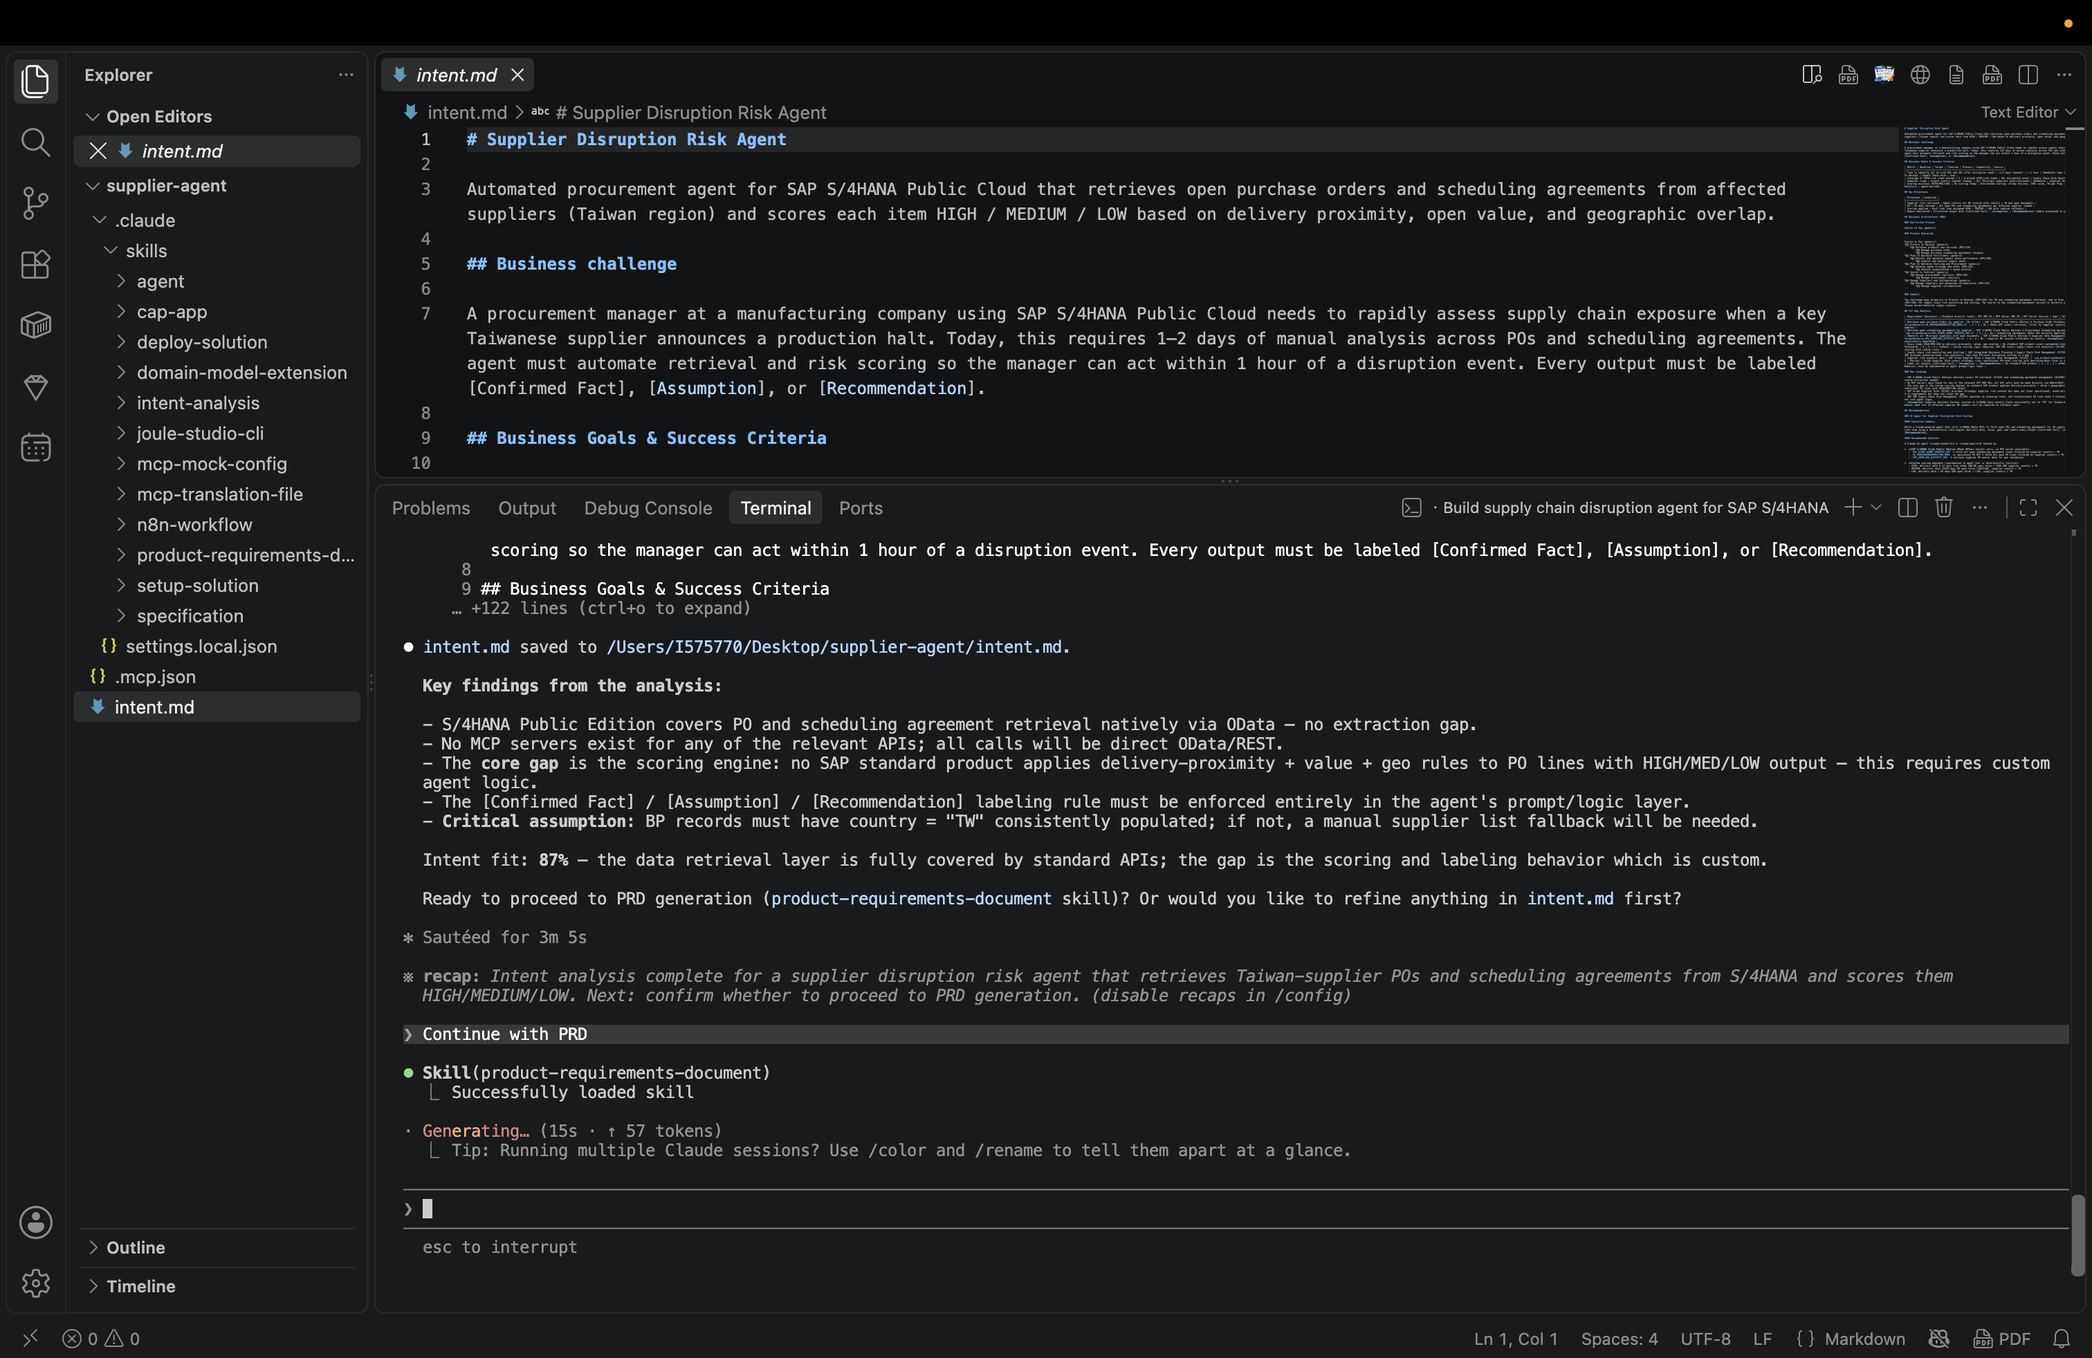
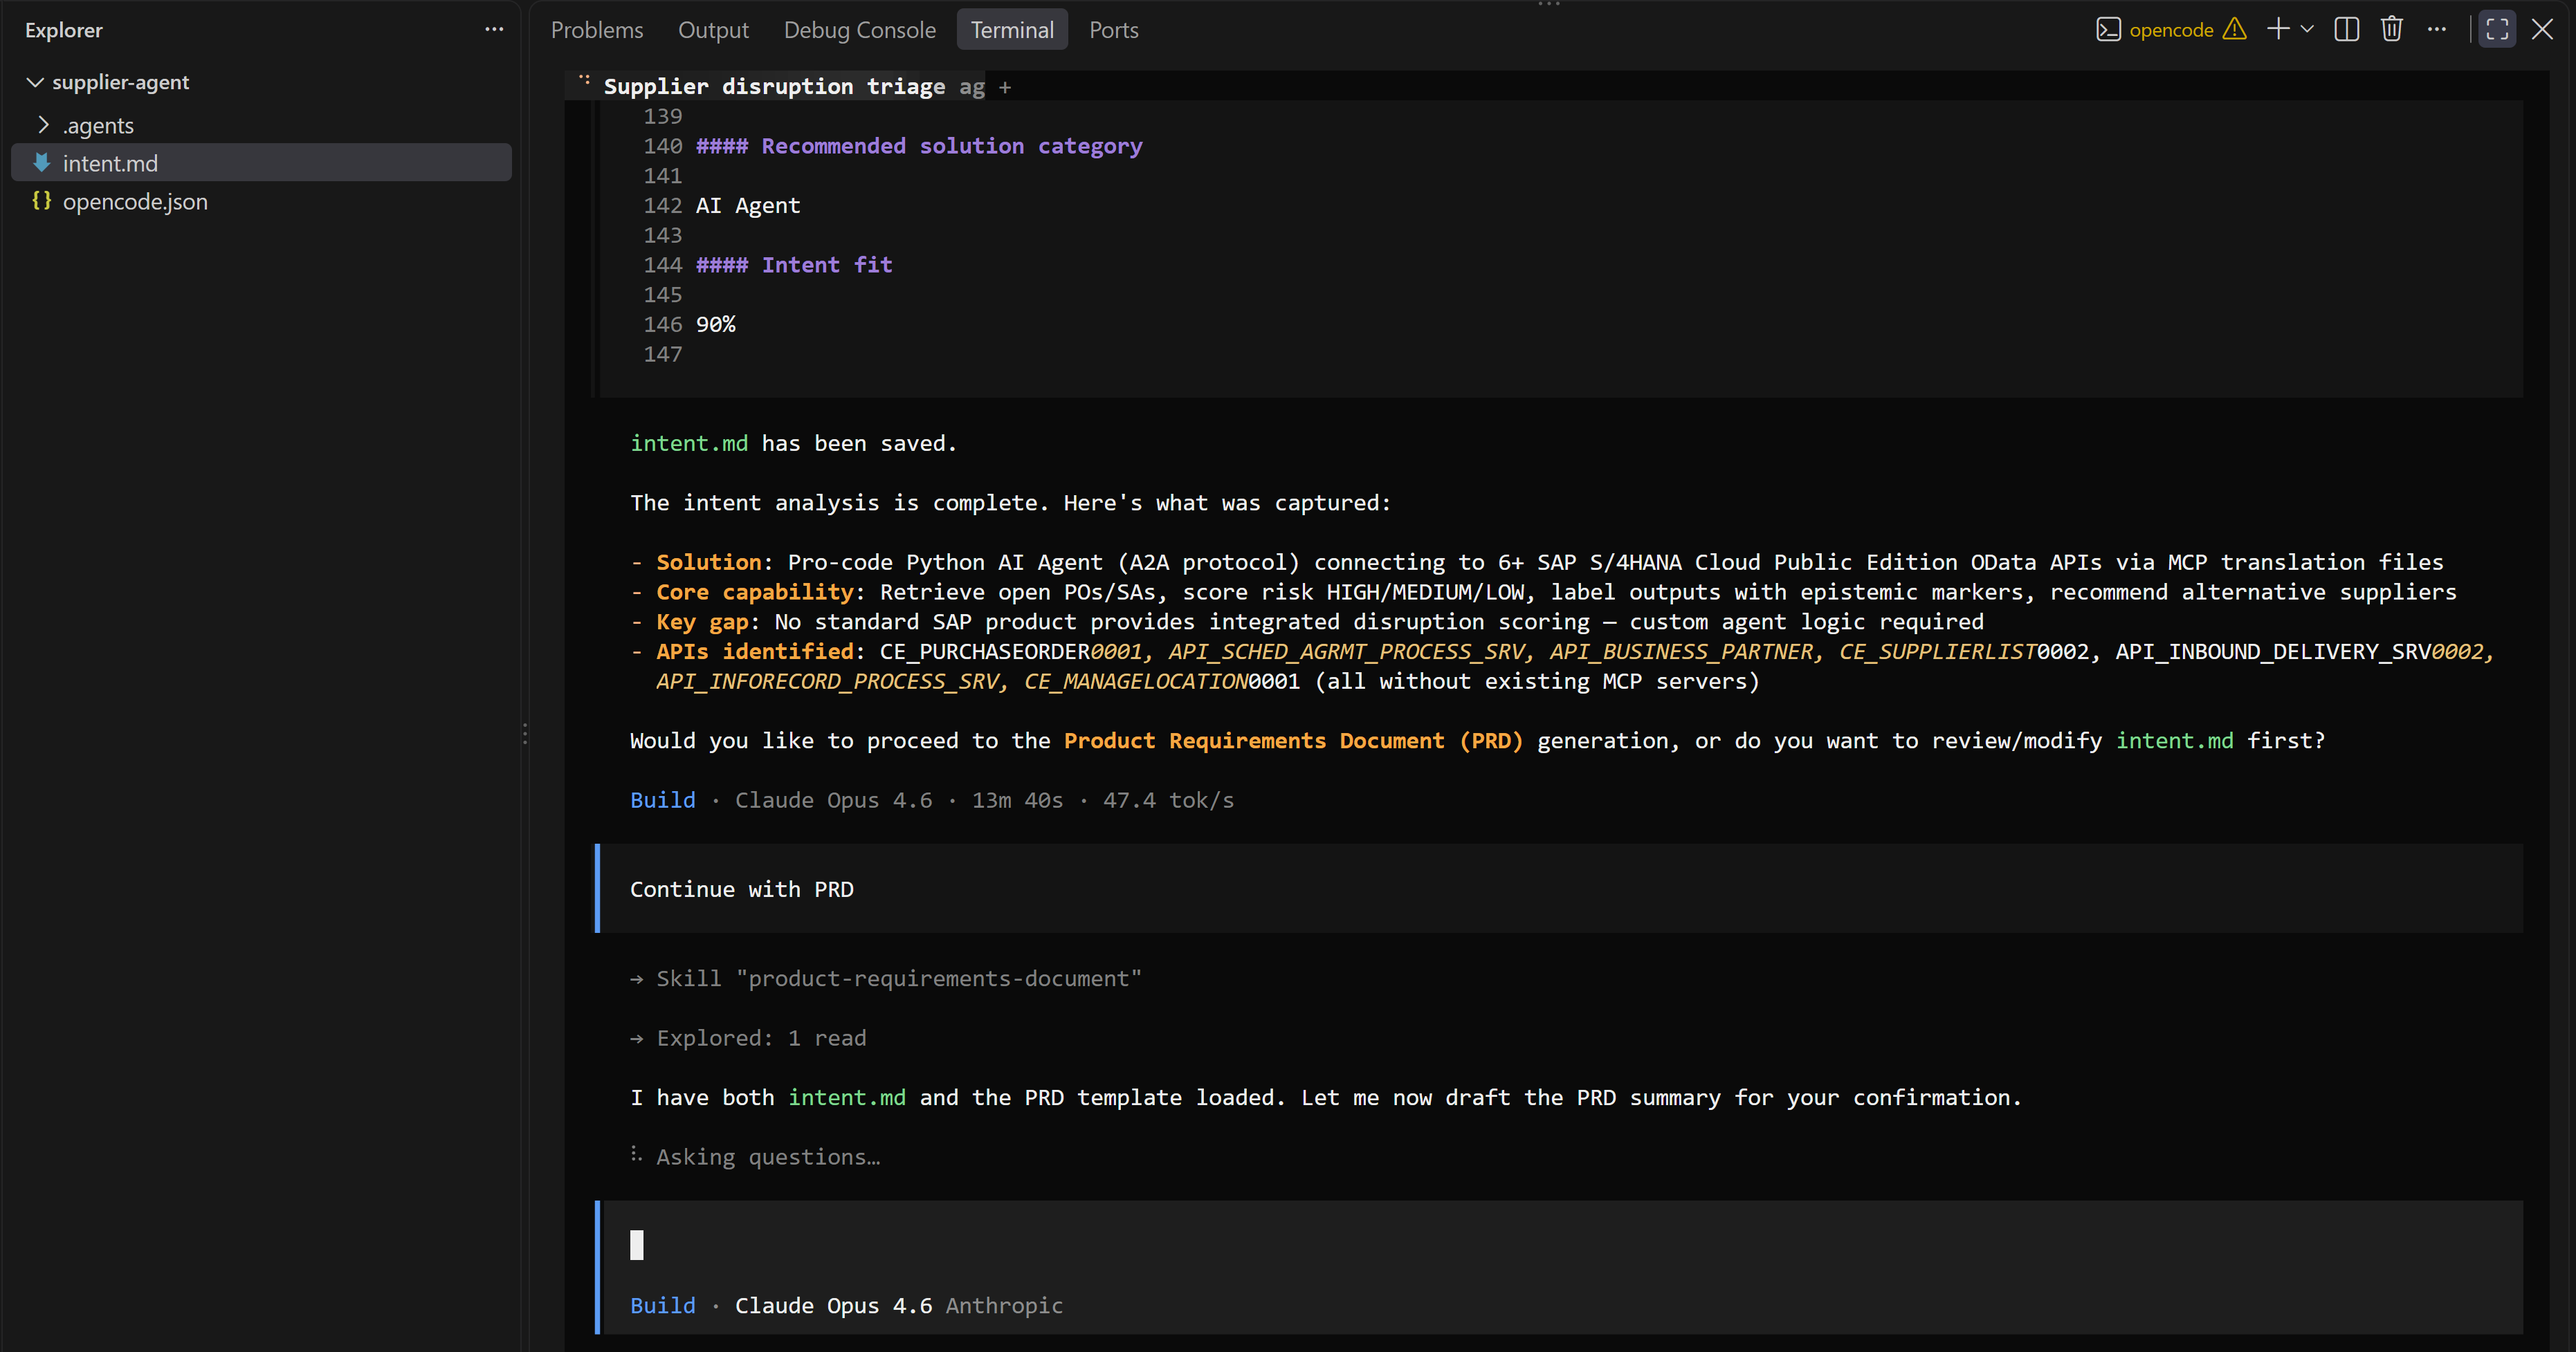
cli tutorial update

diff --git a/tutorials/build-a-supplier-disruption-response-agent-on-sap/build-a-supplier-disruption-response-agent-on-sap.md b/tutorials/build-a-supplier-disruption-response-agent-on-sap/build-a-supplier-disruption-response-agent-on-sap.md
@@ -18,6 +18,7 @@ author_profile: https://github.com/pbujnicka
 - Access to Joule Work and Joule Studio
 - VS Code installed on your session laptop
 - [`jl` CLI (Joule Studio CLI)](https://help.sap.com/docs/joule-studio/joule-studio/joule-studio-for-cli-pro-code-development-in-joule-studio)
+- any compatible coding agent (e.g. OpenCode)
 
 > **No starter repo needed.** You create everything from scratch using the IBD flow.
 
@@ -45,7 +46,7 @@ Joule Studio supports two development modes:
 | Mode | Who it's for | How it works |
 |------|-------------|--------------|
 | Web | Developers, business analysts | Visual flow builder in a browser |
-| **Local / CLI** | Developers, technical PMs | `jl` CLI + coding agent (Claude Code or opencode) on your laptop |
+| **Local / CLI** | Developers, technical PMs | `jl` CLI + coding agent (e.g. OpenCode) on your laptop |
 
 
 
@@ -113,7 +114,7 @@ Both MCP servers are generated during the exercise using the MCP Builder in Joul
 In this exercise you will open VS Code, create your working folder, log into the provided Joule Studio landscape, and launch the coding agent. This takes about 10 minutes.
 
 > **Note — Coding agent**
-> Depending on the landscape provided, the coding agent will be **Claude Code** (`claude`) or **opencode** (`opencode`). Both support the same IBD flow — every step in these exercises is identical regardless of which one is installed.
+> You can choose a coding agent based on your preferences or your company policies. In this tutorial OpenCode will be shown as an example. All the supported coding agents will use the same IBD flow — every step in these exercises is identical regardless of which one is installed. To check which coding agents are supported, run the following command in the terminal: `jl init -h`
 
 #### Open VS Code
 
@@ -207,24 +208,23 @@ A browser window opens for authentication. Once confirmed, the CLI stores the se
 
 ### Initialize the Project
 
+Run `jl init` command with the selected coding agent as an argument. For example for OpenCode use the following syntax:
+
 ```bash
-jl init claude
+jl init opencode
+jl init opencode
 ```
 
-`jl init` sets up the Joule Studio project in your current folder — it fetches the IBD skills into `.claude/skills/` and writes `.mcp.json` and `.claude/settings.local.json`.
+`jl init` sets up the Joule Studio project in your current folder — it fetches the IBD skills into `skills/` folder (correct path depends on the selected coding agent) and writes other configuration files.
 
 <!-- border -->
 ![jl init complete](08_jl_init_complete_skills_tree.png)
 
-> **Do not modify the IBD skills.** The files in `.claude/skills/` encode deployment conventions. Customize your agent through its own code, not through the skills that generate it.
+> **Do not modify the IBD skills.** The files in the `skills/` folder encode deployment conventions. Customize your agent through its own code, not through the skills that generate it.
 
 #### Launch the Coding Agent
 
-```bash
-claude
-```
-
-or:
+Run your coding agent. For example, for OpenCode use the following command:
 
 ```bash
 opencode
@@ -233,20 +233,21 @@ opencode
 The coding agent opens — a chat interface inside the terminal.
 
 <!-- border -->
-![Claude Code](09_claude_code_launched.png)
+![OpenCode](09_open_code_launched.png)
 
 > **Auto-approve mode**
-> - **Claude Code**: press `Shift+Tab` once or twice to cycle to **Auto-approve** mode
+> Use [auto-approve mode](https://opencode.ai/docs/permissions/) for your coding agent to avoid approving of every step. Make sure that you accept the risks of this mode.
 > - **opencode**: append `--auto` when launching: `opencode --auto`
 
 <!-- border -->
-![Claude Code Auto-approve](09_claude_code_launched_auto.png)
+![OpenCode Auto-approve](09_open_code_launched_auto.png)
 
 
 ```
 Desktop/
 └── <your-project-name>/
-    └── .claude/          ← IBD skills + MCP config, created by jl init
+    └── .agents/skills/ ← IBD skills
+        opencode.json ← MCP and permissions config
 ```
 
 The coding agent is running and waiting for input.
@@ -319,6 +320,9 @@ IBD then presents a Business Goals & Success Criteria table and asks you to conf
 <!-- border -->
 ![IBD confirm goals](05_ibd_confirm_goals_table.png)
 
+<!-- border -->
+![IBD confirm goals details](05_ibd_confirm_goals_details.png)
+
 
 #### What is Happening Behind the Scenes
 
@@ -334,10 +338,7 @@ IBD then presents a Business Goals & Success Criteria table and asks you to conf
 
 #### Review and Save `intent.md`
 
-When the analysis completes, IBD generates `intent.md`. VS Code will prompt you to save it — click **Yes, allow all edits during this session**.
-
-<!-- border -->
-![intent.md](06_intent_md_save_prompt.png)
+When the analysis completes, IBD generates `intent.md`. You may be asked to confirm the intent draft. Just accept it. 
 
 Open `intent.md` in the editor to read the full structured document:
 
@@ -391,10 +392,7 @@ Continue with PRD
 
 #### Review the PRD
 
-IBD generates `product-requirements-document.md`. VS Code will prompt you to save it.
-
-<!-- border -->
-![PRD generated — VS Code save prompt](02_prd_save_prompt.png)
+IBD generates `product-requirements-document.md`. 
 
 **Check the following:**
 - Business metrics are meaningful and match your input intent
@@ -402,6 +400,10 @@ IBD generates `product-requirements-document.md`. VS Code will prompt you to sav
 - Solution architecture lists exactly S/4HANA MCP servers available on this tenant
 - All milestones are represented as named functional requirements
 - The composite risk scoring model (HIGH / MEDIUM / LOW) is described as a functional requirement
+
+<!-- border -->
+![PRD overview](04_prd_overview.png)
+
 
 When ready, type:
 
@@ -425,7 +427,7 @@ IBD generates `specification.md` inside `specification/your-agent-name/`.
 > `"Remove [API name] from the specification and only use APIs from the available list."`
 
 <!-- border -->
-![specification.md](05_spec_api_discovery_execute_command.png)
+![specification.md](05_spec_overview.png)
 
 When ready, type:
 
@@ -433,12 +435,15 @@ When ready, type:
 Execute specification
 ```
 
+<!-- border -->
+![exec spec](05_spec_api_discovery_execute_command.png)
+
 After execution, the full agent file structure is generated:
 
 <!-- border -->
 ![Specification](06_spec_complete_file_structure.png)
 
-### What Happened Behind the Scenes
+#### What Happened Behind the Scenes
 
 | Document | Generated by | Purpose |
 |----------|-------------|---------|
